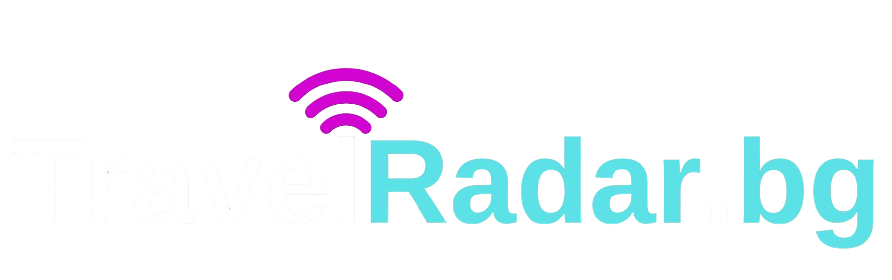
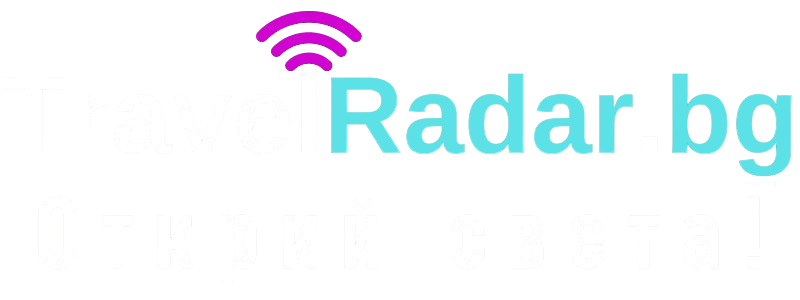
Sliven: show the three new partners in their own colours (1.0.16)

Changed region(s): [[0.3125, 0.0286, 1.0, 0.8857]]

diff --git a/travelx-sliven/index.html b/travelx-sliven/index.html
@@ -1165,8 +1165,9 @@ body.menu-open .mobile-cta{transform:translateY(140%)}
       <div class="partner"><img src="assets/partner-devin.webp" alt="Devin" data-shape="wordmark" width="110" height="44" loading="lazy" decoding="async"></div>
       <div class="partner"><img src="assets/partner-dives.webp" alt="Dives Winery" width="133" height="64" loading="lazy" decoding="async"></div>
       <div class="partner"><img src="assets/partner-abtta.webp" alt="АБТТА — Асоциация на българските туроператори и туристически агенти" data-shape="wordmark" width="179" height="44" loading="lazy" decoding="async"></div>
-      <div class="partner"><img src="assets/partner-travelradar.webp" alt="TravelRadar.bg — Открий света!" data-shape="wordmark" width="210" height="44" loading="lazy" decoding="async"></div>
-      <div class="partner"><img src="assets/partner-travelnews.webp" alt="TravelNews" data-shape="wordmark" width="331" height="44" loading="lazy" decoding="async"></div>
+      <!-- the last three in their own colours, as supplied (Nov 2026) -->
+      <div class="partner"><img src="assets/partner-travelradar.webp" alt="TravelRadar.bg — Открий света!" width="184" height="64" loading="lazy" decoding="async"></div>
+      <div class="partner"><img src="assets/partner-travelnews.webp" alt="TravelNews" data-shape="wordmark" width="309" height="44" loading="lazy" decoding="async"></div>
       <div class="partner"><img src="assets/partner-sliven-press.webp" alt="Sliven Press" data-shape="wordmark" width="257" height="44" loading="lazy" decoding="async"></div>
     </div>  </div>
 </section>

diff --git a/travelx-sliven/tools/optimize.py b/travelx-sliven/tools/optimize.py
@@ -87,7 +87,6 @@ for src, out, h in [
     ("partner-seomax.png", "partner-seomax.webp", 132),            # shown 44px
     ("partner-img-connect-card.png", "partner-img-connect-card.webp", 132),
     ("partner-devin.png", "partner-devin.webp", 132),
-    ("partner-travelradar.png", "partner-travelradar.webp", 132),
     ("partner-pin.png", "partner-pin.webp", 160),                  # shown 64px; source is 87px
     ("partner-dives.png", "partner-dives.webp", 160),              # white-on-transparent original
     ("partner-abtta.png", "partner-abtta.webp", 132),
@@ -98,24 +97,23 @@ for src, out, h in [
     save(resize_h(mono.crop(a.point(lambda v: 255 if v > 8 else 0).getbbox()), h), out,
          quality=90, method=6)
 
-# ── partners whose alpha isn't the mark: TravelNews has a white halo round red
-#    letters, SLIVEN PRESS is an opaque blue badge with white/silver lettering.
-#    Ink comes from the darkest channel (<= lo full, >= hi none), so white and
-#    silver drop out and the badge reads as a black block with the type knocked out.
-for src, out, h, lo, hi in [
-    ("partner-travelnews.png", "partner-travelnews.webp", 132, 130, 200),
-    ("partner-sliven-press.png", "partner-sliven-press.webp", 132, 110, 170),
+# ── partners shown in their own colours, as supplied (Nov 2026)
+for src, out, h in [
+    ("partner-travelnews.png", "partner-travelnews.webp", 132),
+    ("partner-sliven-press.png", "partner-sliven-press.webp", 132),
 ]:
-    im = Image.open(SRC / src).convert("RGBA")
-    r, g, b, a = im.split()
-    darkest = ImageChops.darker(ImageChops.darker(r, g), b)
-    ramp = darkest.point(lambda v, lo=lo, hi=hi:
-                         255 if v <= lo else 0 if v >= hi else int(255 * (hi - v) / (hi - lo)))
-    ink = ImageChops.multiply(ramp, a)
-    mono = Image.new("RGBA", im.size, (0, 0, 0, 0))
-    mono.putalpha(ink)
-    save(resize_h(mono.crop(ink.point(lambda v: 255 if v > 8 else 0).getbbox()), h), out,
-         quality=90, method=6)
+    save(resize_h(trim(Image.open(SRC / src).convert("RGBA")), h), out, quality=90, method=6)
+
+# TravelRadar's original is for dark backgrounds: "Travel" and the tagline are
+# white. Those (any unsaturated pixel) go black; cyan and magenta stay.
+tr = Image.open(SRC / "partner-travelradar.png").convert("RGBA")
+px = tr.load()
+for y in range(tr.height):
+    for x in range(tr.width):
+        r, g, b, a = px[x, y]
+        if a and max(r, g, b) - min(r, g, b) < 40:
+            px[x, y] = (0, 0, 0, a)
+save(resize_h(trim(tr), 132), "partner-travelradar.webp", quality=90, method=6)
 
 # ── speakers: transparent cut-outs from the Figma announcement posts ──
 for name in ("yanev", "ivanov", "petrova", "todorov", "draganova",

diff --git a/travelx-sliven/wordpress/travelx-sliven.php b/travelx-sliven/wordpress/travelx-sliven.php
@@ -25,7 +25,7 @@
 
 defined( 'ABSPATH' ) || exit;
 
-const TXS_VERSION = '1.0.15';
+const TXS_VERSION = '1.0.16';
 const TXS_SLUG    = 'sliven';
 const TXS_MARKER  = '.travelx-sliven';
 
